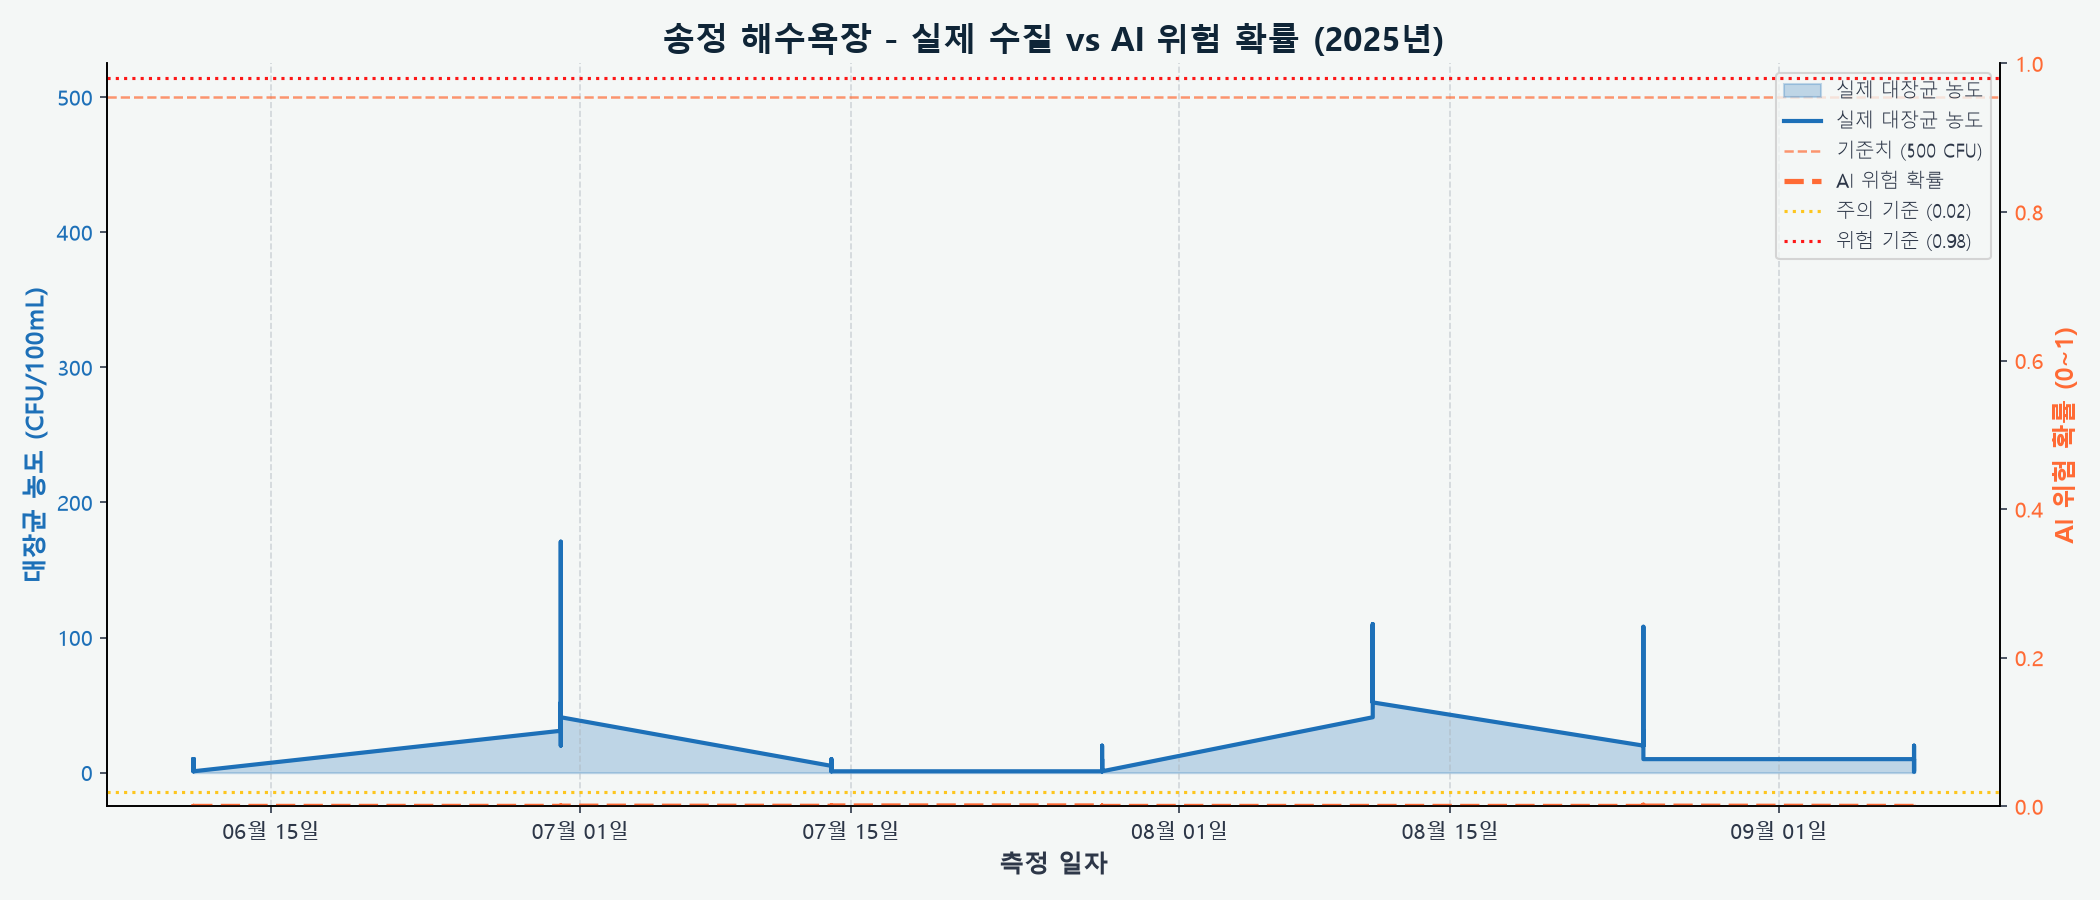
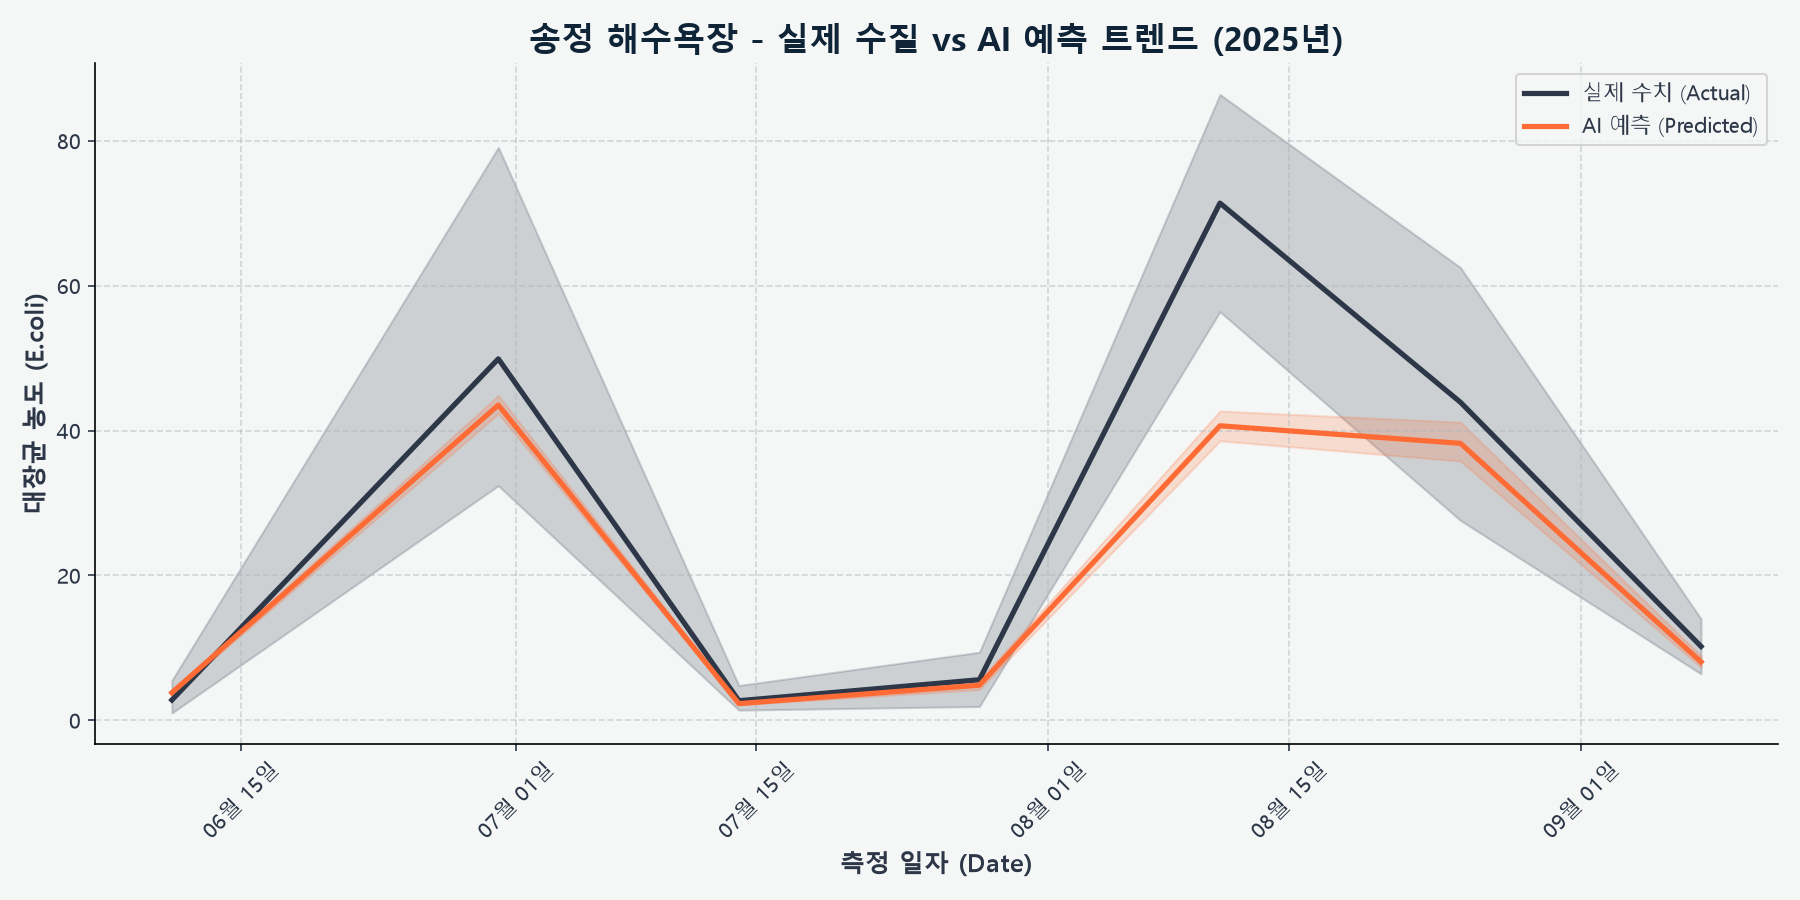
docs: 송도/송정 시계열 그래프(timeseries_lineplot)를 연속 수치 기반으로 변경 및 불필요 차트 제거

diff --git a/Songdo_WaterQuality_Project/Scripts/03_generate_results.py b/Songdo_WaterQuality_Project/Scripts/03_generate_results.py
@@ -384,138 +384,34 @@ year_counts = df_plot['date'].dt.year.value_counts()
 best_year = year_counts.idxmax()
 df_year = df_plot[df_plot['date'].dt.year == best_year].copy()
 
-fig, ax1 = plt.subplots(figsize=(14, 6))
+df_melt = df_year.melt(id_vars=['date'], value_vars=['true_ecoli', 'pred_ecoli'], 
+                       var_name='Type', value_name='Concentration')
+df_melt['Type'] = df_melt['Type'].map({'true_ecoli': '실제 수치 (Actual)', 'pred_ecoli': 'AI 예측 (Predicted)'})
 
-# Left axis: actual ecoli concentration
-ax1.fill_between(df_year['date'], df_year['true_ecoli'], alpha=0.25, color=C_BLUE, label='실제 대장균 농도')
-ax1.plot(df_year['date'], df_year['true_ecoli'], color=C_BLUE, linewidth=2, label='실제 대장균 농도')
-ax1.set_xlabel('측정 일자', weight='bold', fontsize=12)
-ax1.set_ylabel('대장균 농도 (CFU/100mL)', color=C_BLUE, weight='bold', fontsize=12)
-ax1.tick_params(axis='y', labelcolor=C_BLUE)
-ax1.axhline(y=500, color=C_ORANGE, linestyle='--', linewidth=1.2, alpha=0.7, label='기준치 (500 CFU)')
+fig, ax = plt.subplots(figsize=(12, 6))
 
-# Right axis: AI predicted probability
-ax2 = ax1.twinx()
-ax2.fill_between(df_year['date'], df_year['y_pred'], alpha=0.2, color=C_ORANGE)
-ax2.plot(df_year['date'], df_year['y_pred'], color=C_ORANGE, linewidth=2.5, linestyle='--', label='AI 위험 확률')
-ax2.axhline(y=t_yellow, color='#FFC107', linestyle=':', linewidth=1.5, alpha=0.9, label=f'주의 기준 ({t_yellow:.2f})')
-ax2.axhline(y=t_red, color='red', linestyle=':', linewidth=1.5, alpha=0.9, label=f'위험 기준 ({t_red:.2f})')
-ax2.set_ylabel('AI 위험 확률 (0~1)', color=C_ORANGE, weight='bold', fontsize=12)
-ax2.tick_params(axis='y', labelcolor=C_ORANGE)
-ax2.set_ylim(0, 1)
+sns.lineplot(data=df_melt, x='date', y='Concentration', hue='Type', 
+             linewidth=2.5, palette=[C_TEXT, C_ORANGE], errorbar='ci', ax=ax)
+
+ax.set_title(f'{BEACH_KOR} 해수욕장 - 실제 수질 vs AI 예측 트렌드 ({best_year}년)', color=C_NAVY, weight='bold', fontsize=16)
+ax.set_xlabel('측정 일자 (Date)', weight='bold', fontsize=12)
+ax.set_ylabel('대장균 농도 (E.coli)', weight='bold', fontsize=12)
 
 import matplotlib.dates as mdates
-ax1.xaxis.set_major_formatter(mdates.DateFormatter('%m월 %d일'))
+ax.xaxis.set_major_formatter(mdates.DateFormatter('%m월 %d일'))
 plt.xticks(rotation=45)
-ax1.xaxis.grid(True, linestyle='--', alpha=0.5, color='#adb5bd')
 
-# Combined legend
-lines1, labels1 = ax1.get_legend_handles_labels()
-lines2, labels2 = ax2.get_legend_handles_labels()
-ax1.legend(lines1 + lines2, labels1 + labels2, loc='upper right', frameon=True, fontsize=9)
+ax.xaxis.grid(True, linestyle='--', alpha=0.5, color='#adb5bd')
+ax.yaxis.grid(True, linestyle='--', alpha=0.5, color='#adb5bd')
+ax.spines['top'].set_visible(False)
+ax.spines['right'].set_visible(False)
+ax.legend(loc='upper right', frameon=True)
 
-ax1.spines['top'].set_visible(False)
-ax2.spines['top'].set_visible(False)
-
-fig.patch.set_facecolor(C_BG)
-ax1.set_facecolor(C_BG)
-ax2.set_facecolor(C_BG)
-
-ax1.set_title(f'{BEACH_KOR} 해수욕장 - 실제 수질 vs AI 위험 확률 ({best_year}년)', color=C_NAVY, weight='bold', fontsize=16)
 plt.tight_layout()
 plt.savefig(os.path.join(RES, f'timeseries_lineplot_{BEACH}.png'), dpi=150, facecolor=fig.get_facecolor())
 plt.close()
 
-# ── 새 차트1: 예측 점수 버블 차트 ─────────────────────────────────────────
-print("  Generating prediction bubble chart...")
-df_bubble = pred_df.copy()
-df_bubble['date'] = pd.to_datetime(df_bubble['date'])
-df_bubble = df_bubble.sort_values('date').reset_index(drop=True)
-df_bubble['idx'] = range(len(df_bubble))
-df_bubble['label_kor'] = df_bubble['y_true'].map({0: '정상 (기준 이하)', 1: '오염 (기준 초과)'})
 
-fig, ax = plt.subplots(figsize=(14, 6))
-normal_mask  = df_bubble['y_true'] == 0
-positive_mask = df_bubble['y_true'] == 1
-
-ax.scatter(df_bubble.loc[normal_mask, 'idx'], df_bubble.loc[normal_mask, 'y_pred'],
-           c=C_BLUE, alpha=0.6, s=60, label='정상 수질일', zorder=3, edgecolors='white', linewidth=0.5)
-ax.scatter(df_bubble.loc[positive_mask, 'idx'], df_bubble.loc[positive_mask, 'y_pred'],
-           c='#E63946', alpha=0.9, s=180, marker='D', label='실제 오염일', zorder=5, edgecolors='white', linewidth=1)
-
-ax.axhline(y=t_yellow, color=C_WARN, linestyle='--', lw=2, label=f'주의 기준 ({t_yellow:.2f})')
-ax.axhline(y=t_red,    color='#E63946', linestyle=':', lw=2, label=f'위험 기준 ({t_red:.2f})')
-
-ax.set_yscale('log')
-ax.set_ylim(max(df_bubble['y_pred'].min() * 0.1, 1e-9), 1.5)
-ax.set_ylabel('AI 예측 위험 확률 (로그 스케일)', weight='bold', fontsize=12)
-ax.set_xlabel('측정 일자 (시간 순)', weight='bold', fontsize=12)
-ax.set_title(f'{BEACH_KOR} 해수욕장 - 전체 측정일 예측 점수 vs 실제 라벨', color=C_NAVY, weight='bold', fontsize=16)
-
-# x축 도메인 연도 레이블
-year_ticks = df_bubble.groupby(df_bubble['date'].dt.year)['idx'].first()
-ax.set_xticks(year_ticks.values)
-ax.set_xticklabels([f'{y}년' for y in year_ticks.index], fontsize=10)
-
-for _, row in df_bubble[positive_mask].iterrows():
-    ax.annotate(f"{row['date'].strftime('%m/%d')}",
-                (row['idx'], row['y_pred']),
-                textcoords='offset points', xytext=(4, 4),
-                fontsize=7, color='#E63946', alpha=0.8)
-
-ax.xaxis.grid(True, linestyle='--', alpha=0.4, color='#adb5bd')
-ax.yaxis.grid(True, linestyle='--', alpha=0.4, color='#adb5bd')
-ax.spines['top'].set_visible(False)
-ax.spines['right'].set_visible(False)
-ax.legend(fontsize=10, loc='upper right', frameon=True)
-fig.patch.set_facecolor(C_BG)
-ax.set_facecolor(C_BG)
-plt.tight_layout()
-plt.savefig(os.path.join(RES, f'prediction_bubble_{BEACH}.png'), dpi=150, facecolor=fig.get_facecolor())
-plt.close()
-
-# ── 새 차트2: 월별 위험도 히트맵 ─────────────────────────────────────────
-print("  Generating risk calendar heatmap...")
-df_cal = pred_df.copy()
-df_cal['date'] = pd.to_datetime(df_cal['date'])
-df_cal['year']  = df_cal['date'].dt.year
-df_cal['month'] = df_cal['date'].dt.month
-
-# 월별 최대 예측 점수 (pivot)
-cal_pred = df_cal.groupby(['year','month'])['y_pred'].max().reset_index()
-cal_pred_pivot = cal_pred.pivot(index='year', columns='month', values='y_pred')
-
-# 오염 발생 월 (y_true=1 존재)
-cal_contaminated = df_cal[df_cal['y_true']==1].groupby(['year','month']).size().reset_index(name='cnt')
-
-fig, ax = plt.subplots(figsize=(13, max(4, len(cal_pred_pivot) * 0.7 + 1.5)))
-import matplotlib.colors as mcolors
-cmap_risk = mcolors.LinearSegmentedColormap.from_list('risk',
-    ['#eaf4fb', '#a8d4f5', '#f9c74f', '#f3722c', '#e63946'])
-
-sns.heatmap(cal_pred_pivot, ax=ax, cmap=cmap_risk, vmin=0, vmax=1,
-            linewidths=0.5, linecolor='#ccc', annot=True, fmt='.2f',
-            annot_kws={'size': 9, 'weight': 'bold'},
-            cbar_kws={'label': 'AI 위험도 점수 (0=저위험 / 1=고위험)'})
-
-month_labels = [f'{i}월' for i in range(1, 13)]
-ax.set_xticklabels([month_labels[int(c)-1] for c in cal_pred_pivot.columns], fontsize=10)
-ax.set_yticklabels([str(y) + '년' for y in cal_pred_pivot.index], fontsize=10, rotation=0)
-ax.set_xlabel('')
-ax.set_ylabel('')
-
-# 오염 발생 월에 색 테두리
-for _, row in cal_contaminated.iterrows():
-    if row['year'] in cal_pred_pivot.index and row['month'] in cal_pred_pivot.columns:
-        r = list(cal_pred_pivot.index).index(row['year'])
-        c = list(cal_pred_pivot.columns).index(row['month'])
-        ax.add_patch(plt.Rectangle((c, r), 1, 1, fill=False, edgecolor='#e63946', lw=3, zorder=5))
-        ax.text(c + 0.5, r + 0.15, '❌', ha='center', fontsize=10, color='#e63946', zorder=6)
-
-ax.set_title(f'{BEACH_KOR} 해수욕장 - AI 월별 위험도 달력 (❌ = 실제 오염 발생)', color=C_NAVY, weight='bold', fontsize=15)
-plt.tight_layout()
-plt.savefig(os.path.join(RES, f'risk_calendar_{BEACH}.png'), dpi=150, facecolor=fig.get_facecolor())
-plt.close()
 
 # Performance Evolution Plot
 print("  Generating performance evolution plot...")

diff --git a/Songjeong_WaterQuality_Project/Scripts/03_generate_results.py b/Songjeong_WaterQuality_Project/Scripts/03_generate_results.py
@@ -401,43 +401,29 @@ year_counts = df_plot['date'].dt.year.value_counts()
 best_year = year_counts.idxmax()
 df_year = df_plot[df_plot['date'].dt.year == best_year].copy()
 
-fig, ax1 = plt.subplots(figsize=(14, 6))
+df_melt = df_year.melt(id_vars=['date'], value_vars=['true_ecoli', 'pred_ecoli'], 
+                       var_name='Type', value_name='Concentration')
+df_melt['Type'] = df_melt['Type'].map({'true_ecoli': '실제 수치 (Actual)', 'pred_ecoli': 'AI 예측 (Predicted)'})
 
-# Left axis: actual ecoli concentration
-ax1.fill_between(df_year['date'], df_year['true_ecoli'], alpha=0.25, color=C_BLUE, label='실제 대장균 농도')
-ax1.plot(df_year['date'], df_year['true_ecoli'], color=C_BLUE, linewidth=2, label='실제 대장균 농도')
-ax1.set_xlabel('측정 일자', weight='bold', fontsize=12)
-ax1.set_ylabel('대장균 농도 (CFU/100mL)', color=C_BLUE, weight='bold', fontsize=12)
-ax1.tick_params(axis='y', labelcolor=C_BLUE)
-ax1.axhline(y=500, color=C_ORANGE, linestyle='--', linewidth=1.2, alpha=0.7, label='기준치 (500 CFU)')
+fig, ax = plt.subplots(figsize=(12, 6))
 
-# Right axis: AI predicted probability
-ax2 = ax1.twinx()
-ax2.fill_between(df_year['date'], df_year['y_pred'], alpha=0.2, color=C_ORANGE)
-ax2.plot(df_year['date'], df_year['y_pred'], color=C_ORANGE, linewidth=2.5, linestyle='--', label='AI 위험 확률')
-ax2.axhline(y=t_yellow, color='#FFC107', linestyle=':', linewidth=1.5, alpha=0.9, label=f'주의 기준 ({t_yellow:.2f})')
-ax2.axhline(y=t_red, color='red', linestyle=':', linewidth=1.5, alpha=0.9, label=f'위험 기준 ({t_red:.2f})')
-ax2.set_ylabel('AI 위험 확률 (0~1)', color=C_ORANGE, weight='bold', fontsize=12)
-ax2.tick_params(axis='y', labelcolor=C_ORANGE)
-ax2.set_ylim(0, 1)
+sns.lineplot(data=df_melt, x='date', y='Concentration', hue='Type', 
+             linewidth=2.5, palette=[C_TEXT, C_ORANGE], errorbar='ci', ax=ax)
+
+ax.set_title(f'{BEACH_KOR} 해수욕장 - 실제 수질 vs AI 예측 트렌드 ({best_year}년)', color=C_NAVY, weight='bold', fontsize=16)
+ax.set_xlabel('측정 일자 (Date)', weight='bold', fontsize=12)
+ax.set_ylabel('대장균 농도 (E.coli)', weight='bold', fontsize=12)
 
 import matplotlib.dates as mdates
-ax1.xaxis.set_major_formatter(mdates.DateFormatter('%m월 %d일'))
+ax.xaxis.set_major_formatter(mdates.DateFormatter('%m월 %d일'))
 plt.xticks(rotation=45)
-ax1.xaxis.grid(True, linestyle='--', alpha=0.5, color='#adb5bd')
 
-lines1, labels1 = ax1.get_legend_handles_labels()
-lines2, labels2 = ax2.get_legend_handles_labels()
-ax1.legend(lines1 + lines2, labels1 + labels2, loc='upper right', frameon=True, fontsize=9)
+ax.xaxis.grid(True, linestyle='--', alpha=0.5, color='#adb5bd')
+ax.yaxis.grid(True, linestyle='--', alpha=0.5, color='#adb5bd')
+ax.spines['top'].set_visible(False)
+ax.spines['right'].set_visible(False)
+ax.legend(loc='upper right', frameon=True)
 
-ax1.spines['top'].set_visible(False)
-ax2.spines['top'].set_visible(False)
-
-fig.patch.set_facecolor(C_BG)
-ax1.set_facecolor(C_BG)
-ax2.set_facecolor(C_BG)
-
-ax1.set_title(f'{BEACH_KOR} 해수욕장 - 실제 수질 vs AI 위험 확률 ({best_year}년)', color=C_NAVY, weight='bold', fontsize=16)
 plt.tight_layout()
 plt.savefig(os.path.join(RES, f'timeseries_lineplot_{BEACH}.png'), dpi=150, facecolor=fig.get_facecolor())
 plt.close()
